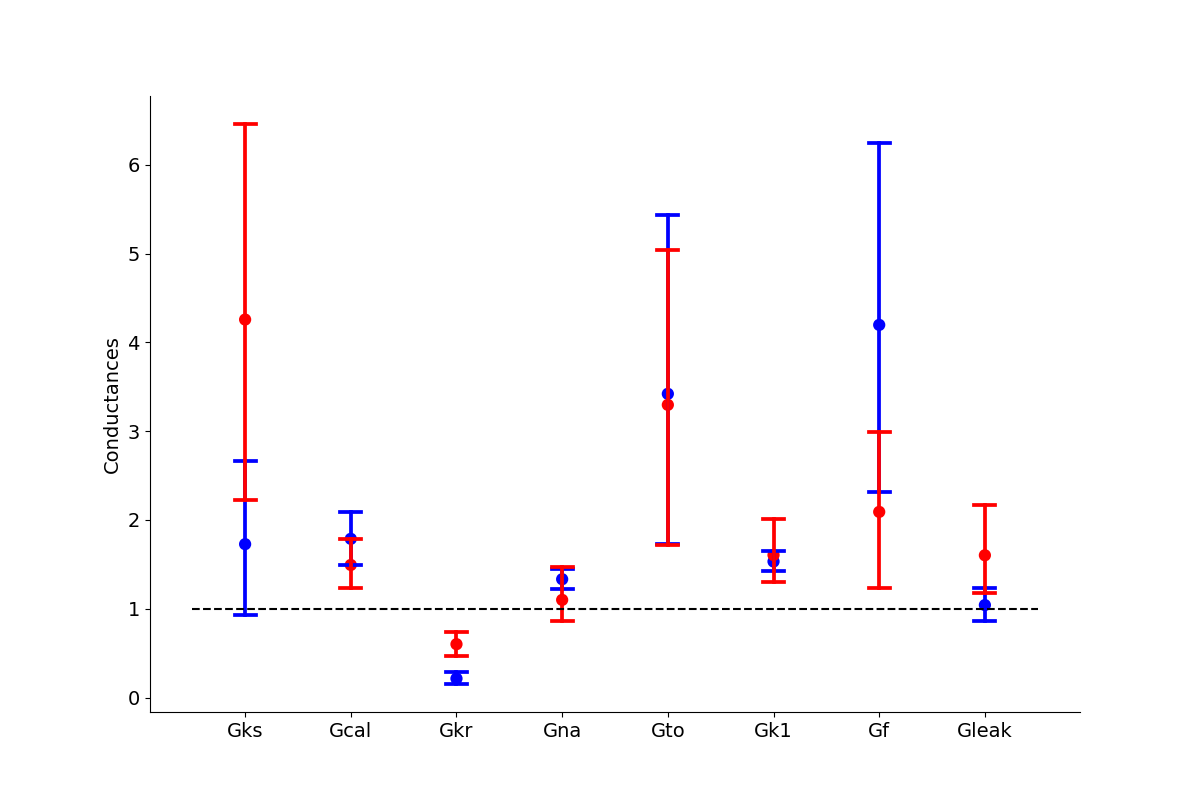
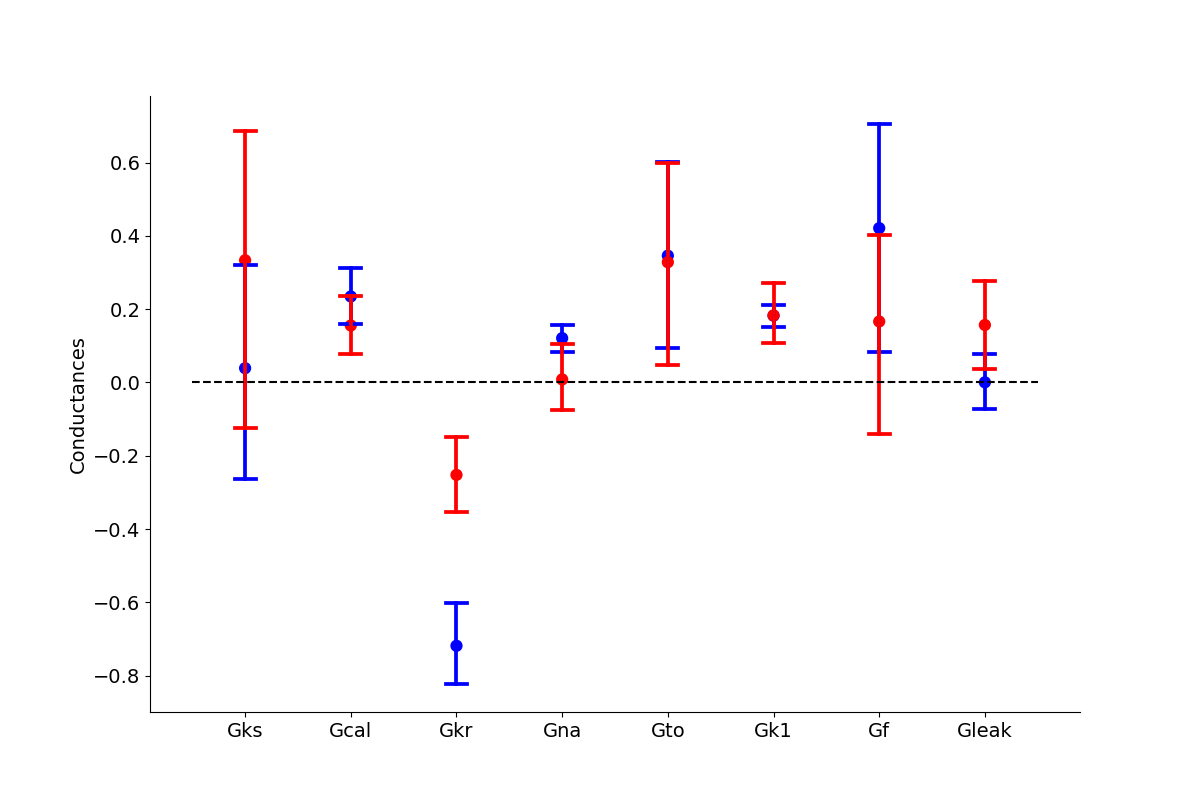
new

diff --git a/bar_plot.py b/bar_plot.py
@@ -19,6 +19,7 @@ all_ind_dict = dict(zip(keys, empty_arrs))
 
 for ind in pop_HCM:
         for k, v in ind[0].items():
+            v = log10(v)
             all_ind_dict[k].append(v)
 
 '''data_hcm = pd.DataFrame(all_ind_dict)
@@ -30,6 +31,7 @@ all_ind_dict = dict(zip(keys, empty_arrs))
 
 for ind in pop_CTRL:
         for k, v in ind[0].items():
+            v = log10(v)
             all_ind_dict[k].append(v)
 
 '''data_ctrl = pd.DataFrame(all_ind_dict)
@@ -47,7 +49,7 @@ axs.spines['top'].set_visible(False)
 sns.pointplot(df_hcm, join=False, capsize=.2, color='blue')
 sns.pointplot(df_ctrl, join=False, capsize=.2, color='red')
 
-axs.hlines(1, -.5, (len(keys)-.5), colors='black', linestyle='--')
+axs.hlines(0, -.5, (len(keys)-.5), colors='black', linestyle='--')
 plt.xticks(fontsize=14)
 plt.yticks(fontsize=14)
 axs.set_ylabel('Conductances', fontsize=14)
